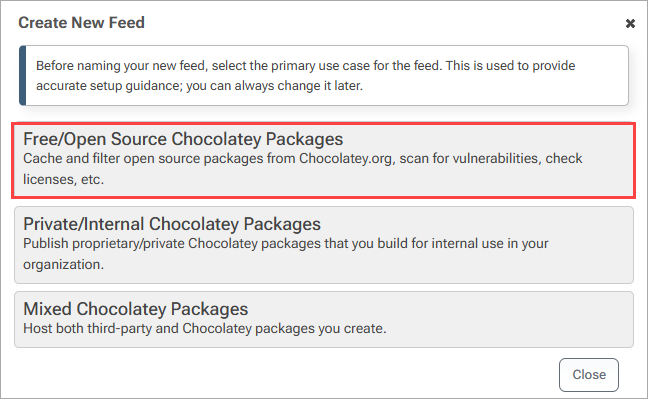
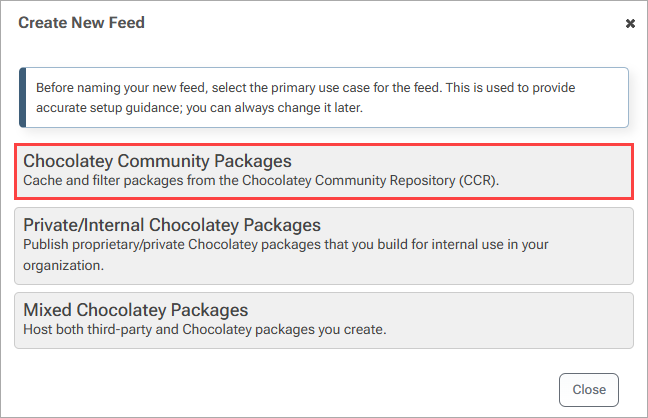
Chocolatey proxy update two (#594)
* updated proget screenshots with new ui

* updated chocolatey proxy page

---------

Pull request: Chocolatey proxy update two
Updated the HOWTO: Proxy Packages from the Chocolatey Community Repository in ProGet page.

Changes from previous version:
- fixed grammar issue
- updated screenshot and corresponding text

diff --git a/Content/proget/feeds/chocolatey/howto-chocolatey-proxyccr.md b/Content/proget/feeds/chocolatey/howto-chocolatey-proxyccr.md
@@ -11,11 +11,11 @@ With ProGet you can create "Feeds" to proxy packages from the Chocolatey Communi
 
 ## Step 1: Create a New Feed
 
-Start by selecting "Feeds" and "Create New Feed". Next, select "Chocolatey Packages", as we will creating a feed to proxy Chocolatey packages.
+Start by selecting "Feeds" and "Create New Feed". Next, select "Chocolatey Packages", as we will be creating a feed to proxy Chocolatey packages.
 
 ![Create Feed](/resources/docs/proget-chocolatey-newfeed.png){height="" width="50%"}
 
-Now select "Free/Open Source Chocolatey Packages", which will allow us to proxy packages from the Chocolatey Community Repository.
+Now select "Chocolatey Community Packages", which will allow us to proxy packages from the Chocolatey Community Repository.
 
 ![Select Feed](/resources/docs/proget-chocolatey-createconnector.png){height="" width="50%"}
 